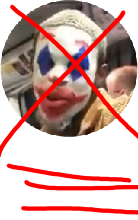
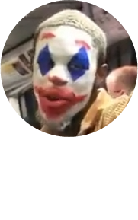
asd

Changed region(s): [[0.0, 0.0, 1.0, 0.7091], [0.029, 0.7364, 1.0, 0.8727], [0.1449, 0.9273, 1.0, 0.9818]]

diff --git a/src/pages/bepisracetests.html b/src/pages/bepisracetests.html
@@ -821,7 +821,7 @@ animation-fill-mode: forwards;
 <div class="flex-child">
 <input type="image" class="allothers" src="/lebronmarble.png" id="racer6"></div>
 <div class="flex-child">
-<input type="image" class="allothers" src="/jokairmarble.png" id="racer7"></div>
+<input type="image" class="allothers" src="/jokairmarbledead.png" id="racer7"></div>
 <div class="flex-child">
 <input type="image" class="allothers" src="/sonicmarble.png" id="racer8"></div>
 </div>
@@ -1181,7 +1181,7 @@ button7.addEventListener('click', function() {
     button5.classList.add('racerAnimation4')
     button6.classList.add('racerAnimation4')
     button8.classList.add('racerAnimation4')
-    selected.src = "/jokairmarble.png"
+    selected.src = "/jokairmarbledead.png"
     selected.classList.remove('racerAnimation', 'racerAnimation2')
     void selected.offsetWidth;
     selected.classList.add('racerAnimation');
